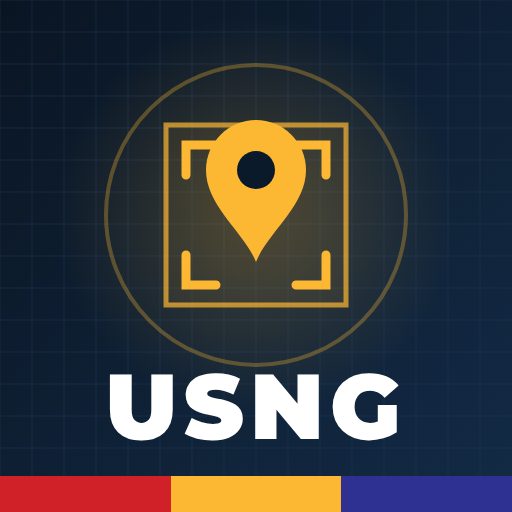
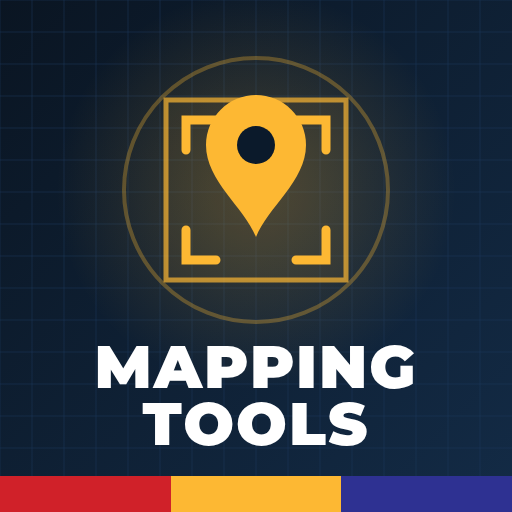
Offline readout: call it Mapping Tools throughout
Same header images as the Mapping Tools app, home-screen name and icon say Mapping Tools,
back button reads 'Back to map'. sw.js cp-v23 precaches the header images.

Claude-Session: https://claude.ai/code/session_01W3fEaKxvz2vJ56mq5xB9cF

diff --git a/usng.html b/usng.html
@@ -1,15 +1,15 @@
 <!DOCTYPE html>
 <html lang="en"><head><meta charset="utf-8">
 <meta name="viewport" content="width=device-width,initial-scale=1,viewport-fit=cover">
-<title>My USNG – BEACON</title>
-<!-- Live USNG readout from the device GPS.
+<title>Mapping Tools – BEACON</title>
+<!-- Mapping Tools – live USNG readout from the device GPS (offline version).
      Embedded at the top of the BC EM Mapping Tools app (phone layout), and usable on its own:
      open https://bocoem.github.io/command-post/usng.html and add it to the home screen. It then works with no signal
      (sw.js keeps a copy). Digits finer than the GPS accuracy are greyed out and left out of Copy/Share. -->
 <meta name="theme-color" content="#0B1A2B">
 <meta name="apple-mobile-web-app-capable" content="yes">
 <meta name="apple-mobile-web-app-status-bar-style" content="black-translucent">
-<meta name="apple-mobile-web-app-title" content="My USNG">
+<meta name="apple-mobile-web-app-title" content="Mapping Tools">
 <link rel="manifest" href="usng.webmanifest">
 <link rel="apple-touch-icon" href="usng_icon.png">
 <link rel="preconnect" href="https://fonts.googleapis.com"><link rel="preconnect" href="https://fonts.gstatic.com" crossorigin>
@@ -45,12 +45,10 @@ body.embed .full{display:none}
 
 /* Standalone (home-screen app) */
 body.solo{min-height:100%;display:flex;flex-direction:column}
-.hdr{position:relative;display:flex;align-items:center;gap:12px;padding:calc(env(safe-area-inset-top) + 12px) 16px 14px;background:var(--bg2) linear-gradient(90deg,#0A1522,#10243D)}
-.hdr:after{content:"";position:absolute;left:0;right:0;bottom:0;height:4px;background:linear-gradient(90deg,var(--red) 0 33.3%,var(--gold) 33.3% 66.6%,var(--indigo) 66.6%)}
-.hdr img{width:46px;height:46px}
-.hdr .t1{font:800 10.5px var(--disp);color:var(--gold);letter-spacing:1px}
-.hdr .t2{font:900 26px var(--disp);color:#fff;letter-spacing:.5px;line-height:1}
-.pill{margin-left:auto;white-space:nowrap;font-size:12px;font-weight:700;letter-spacing:1px;padding:3px 9px;border-radius:20px;background:rgba(47,191,113,.15);color:var(--ok)}
+.hdr{display:flex;align-items:center;gap:8px;height:84px;padding:env(safe-area-inset-top) 10px 0;box-sizing:content-box;background:#0B1A2B url(mt_header_phone.png) center bottom/cover no-repeat}
+.hdr .seal{width:50px;height:50px;flex:none}
+.hdr .lock{height:42px;max-width:calc(100% - 70px);object-fit:contain;object-position:left center}
+.pill{white-space:nowrap;font-size:12px;font-weight:700;letter-spacing:1px;padding:3px 9px;border-radius:20px;background:rgba(47,191,113,.15);color:var(--ok)}
 .pill.no{background:rgba(147,169,195,.12);color:var(--muted)}
 body.solo .wrap{flex:1;display:flex;flex-direction:column;align-items:center;justify-content:center;gap:10px;padding:20px 16px}
 body.solo .big{font-size:min(14vw,64px)}
@@ -68,13 +66,13 @@ body.solo .embedOnly{display:none}
 .note{font-size:14px;color:var(--muted);text-align:center;max-width:420px;line-height:1.35;padding:0 16px calc(env(safe-area-inset-bottom) + 16px)}
 .note b{color:var(--gold)}
 </style></head><body>
-<div class="hdr full"><img src="seal.png" alt="Botetourt County Emergency Management seal"><div><div class="t1">BOTETOURT COUNTY EMERGENCY MANAGEMENT</div><div class="t2">MY USNG</div></div><span class="pill no" id="off">ONLINE ONLY</span></div>
-<div class="back full"><a class="btn ghost" id="back" href="https://experience.arcgis.com/experience/36d30d3482fa4536820ac6de09ddc247">&lsaquo; MAPPING TOOLS</a><small id="backNote" hidden>Needs a signal</small></div>
+<div class="hdr full"><img class="seal" src="seal.png" alt="Botetourt County Emergency Management seal"><img class="lock" src="mt_lockup.png" alt="Botetourt County Emergency Management, Mapping Tools"></div>
+<div class="back full"><a class="btn ghost" id="back" href="https://experience.arcgis.com/experience/36d30d3482fa4536820ac6de09ddc247">&lsaquo; BACK TO MAP</a><small id="backNote" hidden>Needs a signal</small><span class="pill no" id="off">ONLINE ONLY</span></div>
 <div class="wrap">
   <div class="lbl">My position &middot; <button class="fmt" id="fmt" type="button" title="Tap to change the coordinate format">USNG</button></div>
   <div class="chips full" id="chips"></div>
   <div class="big" id="pos"><div class="msg">Finding your location&hellip;</div></div>
-  <div class="sub" id="sub" hidden><span><span class="dot" id="dot"></span><span id="acc"></span></span><span class="embedOnly"><button id="cp" type="button">COPY</button> <a class="btn ghost" href="usng.html" target="_blank" rel="noopener" title="Open the offline USNG app">OFFLINE APP</a></span></div>
+  <div class="sub" id="sub" hidden><span><span class="dot" id="dot"></span><span id="acc"></span></span><span class="embedOnly"><button id="cp" type="button">COPY</button> <a class="btn ghost" href="usng.html" target="_blank" rel="noopener" title="Open the offline version of Mapping Tools">OFFLINE APP</a></span></div>
   <div class="acts full" id="acts" hidden><button id="cp2" type="button">COPY</button><button id="sh" type="button" class="ghost">SHARE</button></div>
   <div class="grid full" id="grid" hidden>
     <div class="cell"><b id="altLbl">Latitude, longitude</b><span id="ll"></span></div>

diff --git a/sw.js b/sw.js
@@ -4,9 +4,9 @@
    - ArcGIS reads (GET): network first, last copy when offline. Sign-in tokens are stripped from the stored key.
      Records with personal information (protected services, shelter registry) are never stored on the device.
    - Writes (POST) are never cached; the app's outbox handles them. */
-var V = 'cp-v22', SHELL = 'cp-shell-' + V, DATA = 'cp-data-' + V, LIB = 'cp-lib-' + V;
+var V = 'cp-v23', SHELL = 'cp-shell-' + V, DATA = 'cp-data-' + V, LIB = 'cp-lib-' + V;
 var PRIVATE = /BOCO_EM_Protected|BOCO_EMS_PatientCare|Shelter_Registry|Shelter_Checkouts|Reunification|oauth2|\/generateToken/i;
-var PAGES = ['./', 'index.html', 'ops.html', 'mci.html', 'reunify.html', 'checkin.html', 'family.html', 'hotline.html', 'faq.html', 'commandboard.html', 'cb.css', 'cb.js', 'sync.js', 'map.js', 'lib/jsQR.js', 'app.css', 'seal.png', 'patch.png', 'icon.png', 'cp_lockup.png', 'manifest.webmanifest', 'usng.html', 'usng.webmanifest', 'usng_icon.png'];
+var PAGES = ['./', 'index.html', 'ops.html', 'mci.html', 'reunify.html', 'checkin.html', 'family.html', 'hotline.html', 'faq.html', 'commandboard.html', 'cb.css', 'cb.js', 'sync.js', 'map.js', 'lib/jsQR.js', 'app.css', 'seal.png', 'patch.png', 'icon.png', 'cp_lockup.png', 'manifest.webmanifest', 'usng.html', 'usng.webmanifest', 'usng_icon.png', 'mt_lockup.png', 'mt_header_phone.png'];
 
 self.addEventListener('install', function (e) {
   e.waitUntil(caches.open(SHELL).then(function (c) { return Promise.all(PAGES.map(function (p) { return c.add(new Request(p, { cache: 'reload' })).catch(function () {}); })); }).then(function () { return self.skipWaiting(); }));
